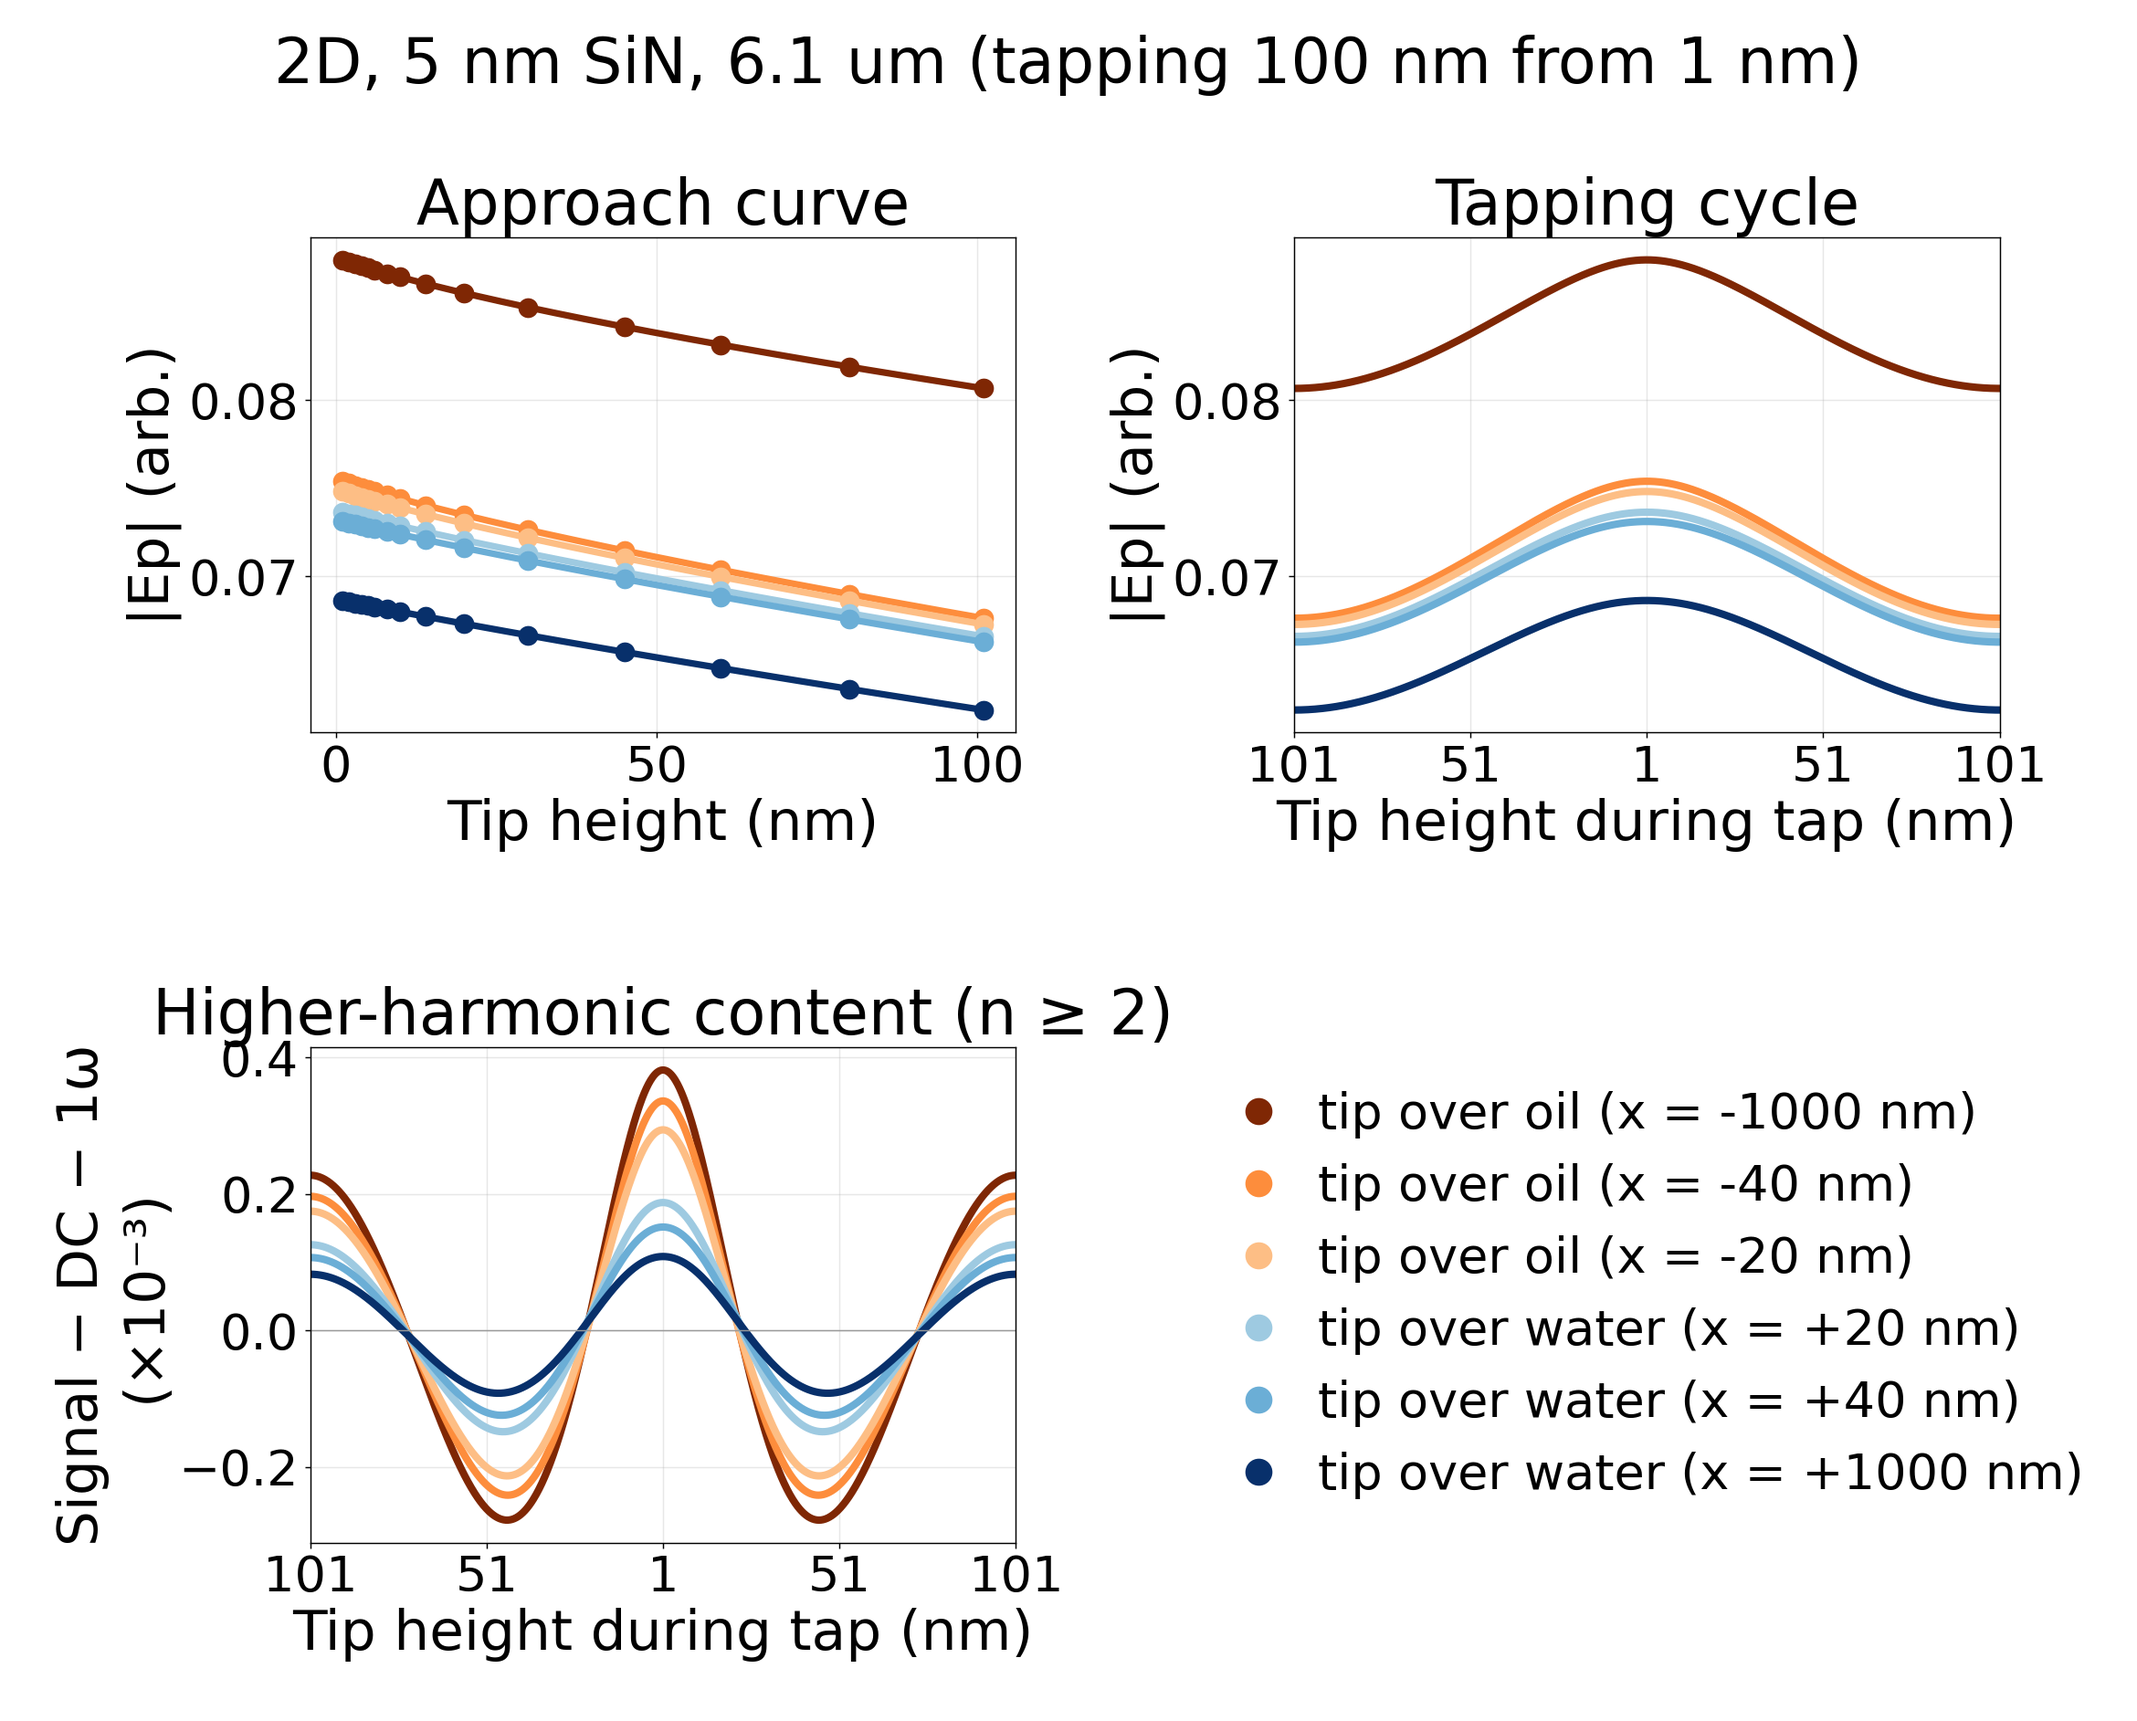
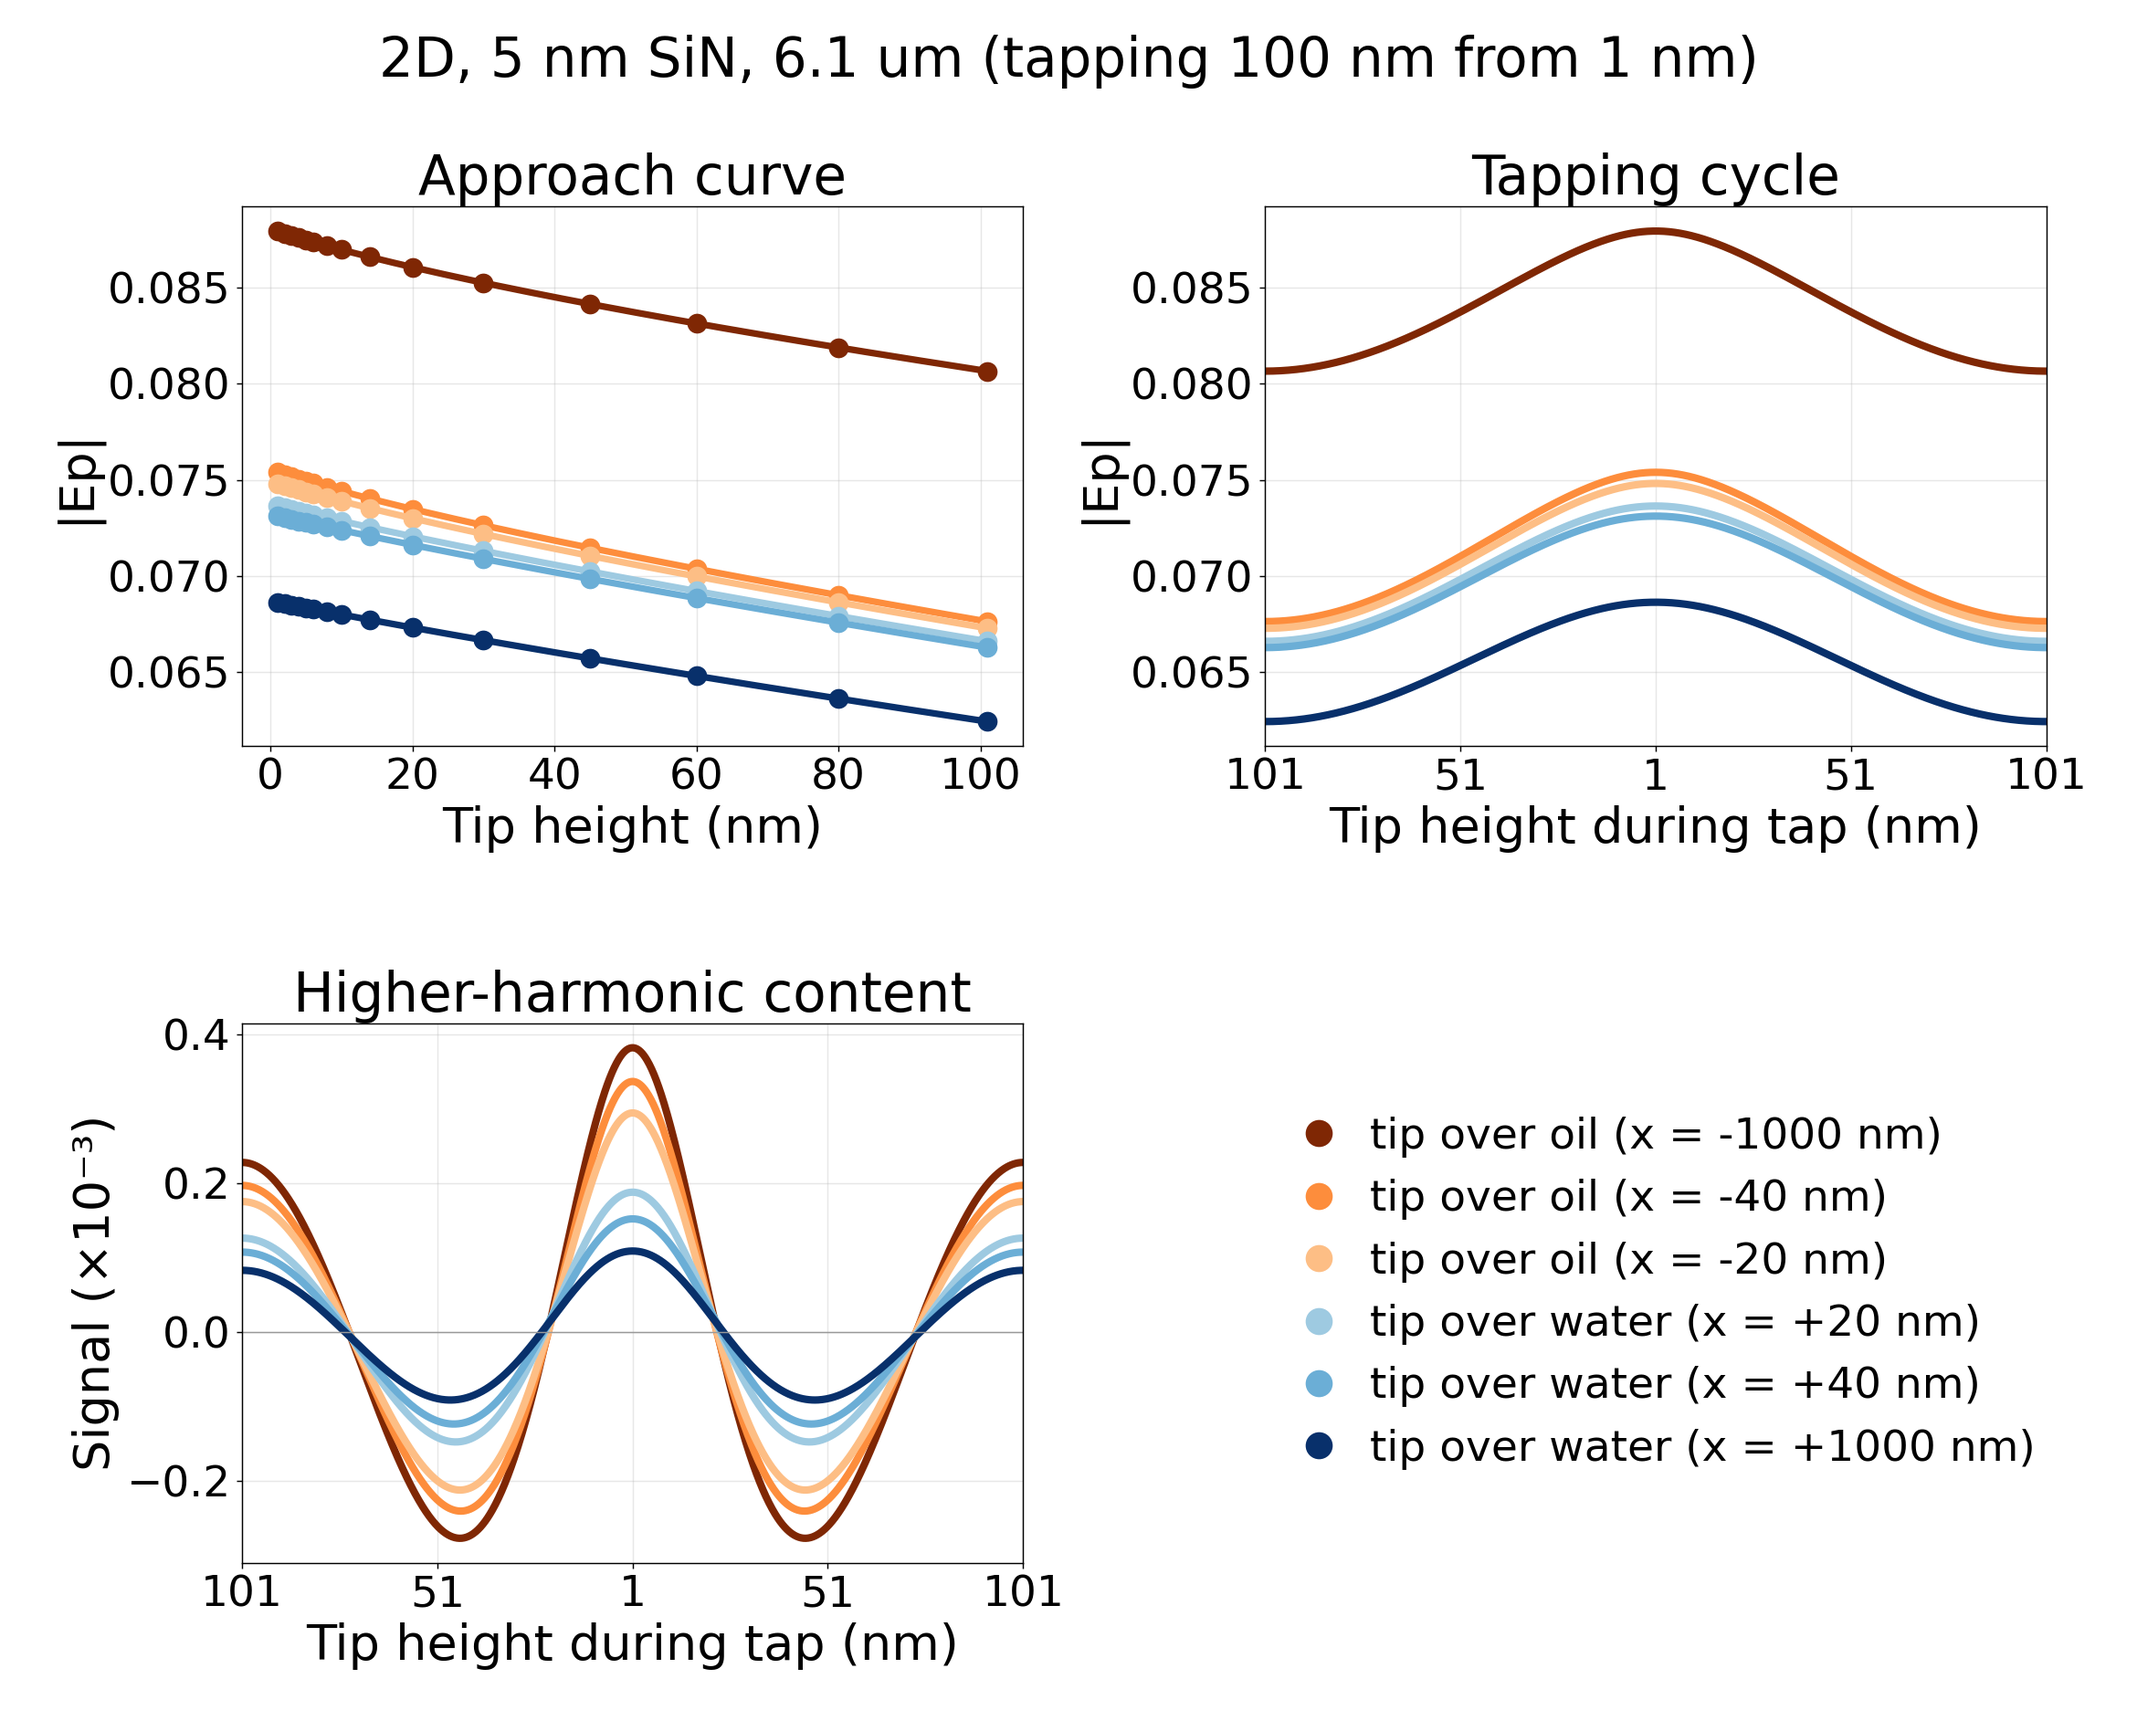
2D: approach/tapping figures: simpler labels, slightly smaller fonts

diff --git a/Interface_LineScan_2D/plot_2d.py b/Interface_LineScan_2D/plot_2d.py
@@ -750,8 +750,8 @@ def plot_approach_and_tapping(xs=((-1000.0, 'oil', '#7f2704'), (-40.0, 'oil', '#
     z = MIN_GAP + TAP_AMPLITUDE/2*(1 + np.cos(2*np.pi*t))
     tc = np.linspace(0, 1, 4000, endpoint=False)       # one full cycle for the Fourier coefficients
     zc = MIN_GAP + TAP_AMPLITUDE/2*(1 + np.cos(2*np.pi*tc))
-    rc = plt.rc_context({'font.size': 32, 'axes.titlesize': 38, 'axes.labelsize': 34,
-                         'xtick.labelsize': 30, 'ytick.labelsize': 30, 'legend.fontsize': 32, 'figure.titlesize': 38})
+    rc = plt.rc_context({'font.size': 28, 'axes.titlesize': 33, 'axes.labelsize': 30,
+                         'xtick.labelsize': 26, 'ytick.labelsize': 26, 'legend.fontsize': 28, 'figure.titlesize': 33})
     rc.__enter__()
     fig, axs = plt.subplots(2, 2, figsize=(18, 14.5))
     ax = [axs[0, 0], axs[0, 1], axs[1, 0], axs[1, 1]]
@@ -776,17 +776,17 @@ def plot_approach_and_tapping(xs=((-1000.0, 'oil', '#7f2704'), (-40.0, 'oil', '#
         a.set_xticklabels([f'{z0:.0f}' for z0 in MIN_GAP + TAP_AMPLITUDE/2*(1 + np.cos(2*np.pi*np.array(ticks)))])
         a.set_xlim(0, 1)
         a.set_xlabel('Tip height during tap (nm)')
-    yl = '|Ep| / |Ep(101 nm)|' if norm else '|Ep| (arb.)'
+    yl = '|Ep| / |Ep(101 nm)|' if norm else '|Ep|'
     ax[0].set(xlabel='Tip height (nm)', ylabel=yl, title='Approach curve')
     ax[1].set(ylabel=yl, title='Tapping cycle')
     ax[2].axhline(0, color='0.6', lw=0.8)
-    ax[2].set(ylabel='Signal − DC − 1ω\n(×10⁻³)', title='Higher-harmonic content (n ≥ 2)')
+    ax[2].set(ylabel='Signal (×10⁻³)', title='Higher-harmonic content')
     for a in ax[:3]:
         a.grid(alpha=0.3)
     # fourth panel: the legend (same colours in all panels)
     h, l = ax[0].get_legend_handles_labels()
     ax[3].axis('off')
-    ax[3].legend(h, l, loc='center', fontsize=30, frameon=False, markerscale=1.4, handletextpad=0.2)
+    ax[3].legend(h, l, loc='center', fontsize=26, frameon=False, markerscale=1.4, handletextpad=0.2)
     fig.suptitle(f'2D, {SETS[set_name][2]} (tapping {TAP_AMPLITUDE} nm from {MIN_GAP} nm)')
     fig.tight_layout(h_pad=2.5)
     out = os.path.join(FIGS, 'approach_and_tapping' + ('_norm' if norm else '') + '.png')
